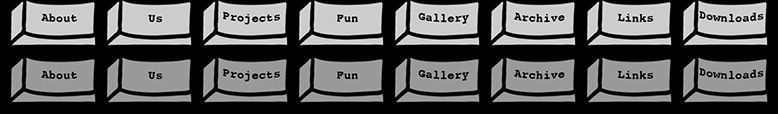
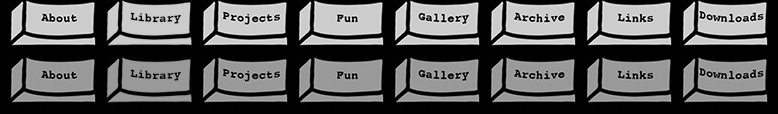
us button is now library

Changed region(s): [[0.1542, 0.6053, 0.2468, 0.7105], [0.1542, 0.1053, 0.2468, 0.2105], [0.1851, 0.3684, 0.2159, 0.3947]]

diff --git a/index.html b/index.html
@@ -15,11 +15,11 @@
 	<nav> <!--Nav is in main due to some pages having sub nav buttons. these however will be just beneath nav tags-->
 	<ul>
 		<li><span class="btn about"><a href="index.html">About</a></span></li>
-		<li><span class="btn us"><a href="index.html">Us</a></span></li>
 		<li><span class="btn projects"><a href="index.html">Projects</a></span></li>
 		<li><span class="btn fun"><a href="index.html">Fun</a></span></li>
 		<li><span class="btn gallery"><a href="index.html">Gallery</a></span></li>
 		<li><span class="btn archive"><a href="index.html">Archive</a></span></li>
+		<li><span class="btn library"><a href="index.html">Us</a></span></li>
 		<li><span class="btn links"><a href="index.html">Links</a></span></li>
 		<li><span class="btn downloads"><a href="index.html">Downloads</a></span></li>
 	</ul>

diff --git a/styles/style.css b/styles/style.css
@@ -78,16 +78,16 @@ span.about a:hover {
 span.about a:active {
 	background-position: -6px -50px;
 }
-span.us a:link,
-span.us a:visited {
+span.library a:link,
+span.library a:visited {
 	width: 96px;
 	height: 56px;
 	background: url(../Images/index/navbarIndex.jpg) -96px 0px no-repeat;
 }
-span.us a:hover {
+span.library a:hover {
 	background-position: -97px -56px;
 }
-span.us a:active {
+span.library a:active {
 	background-position: -102px -50px;
 }
 span.projects a:link,
